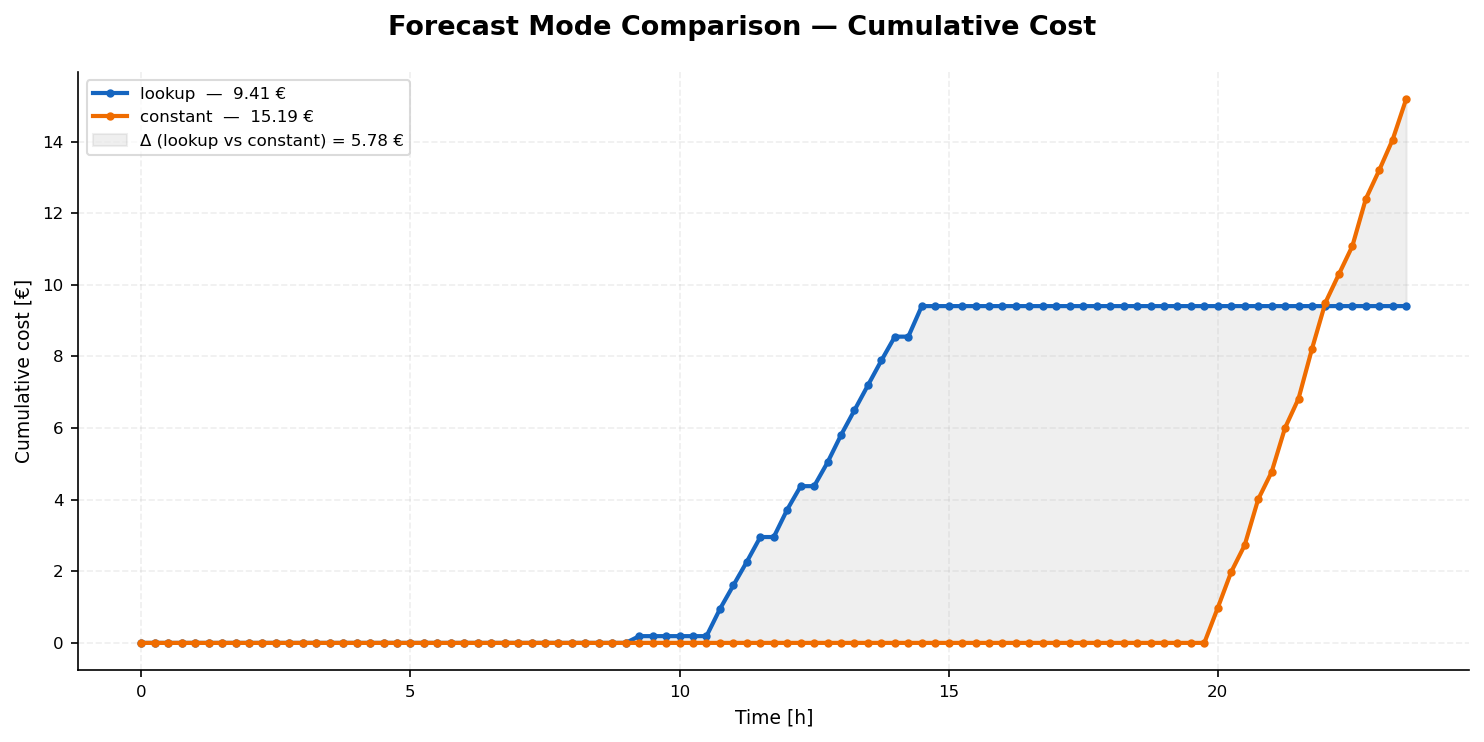
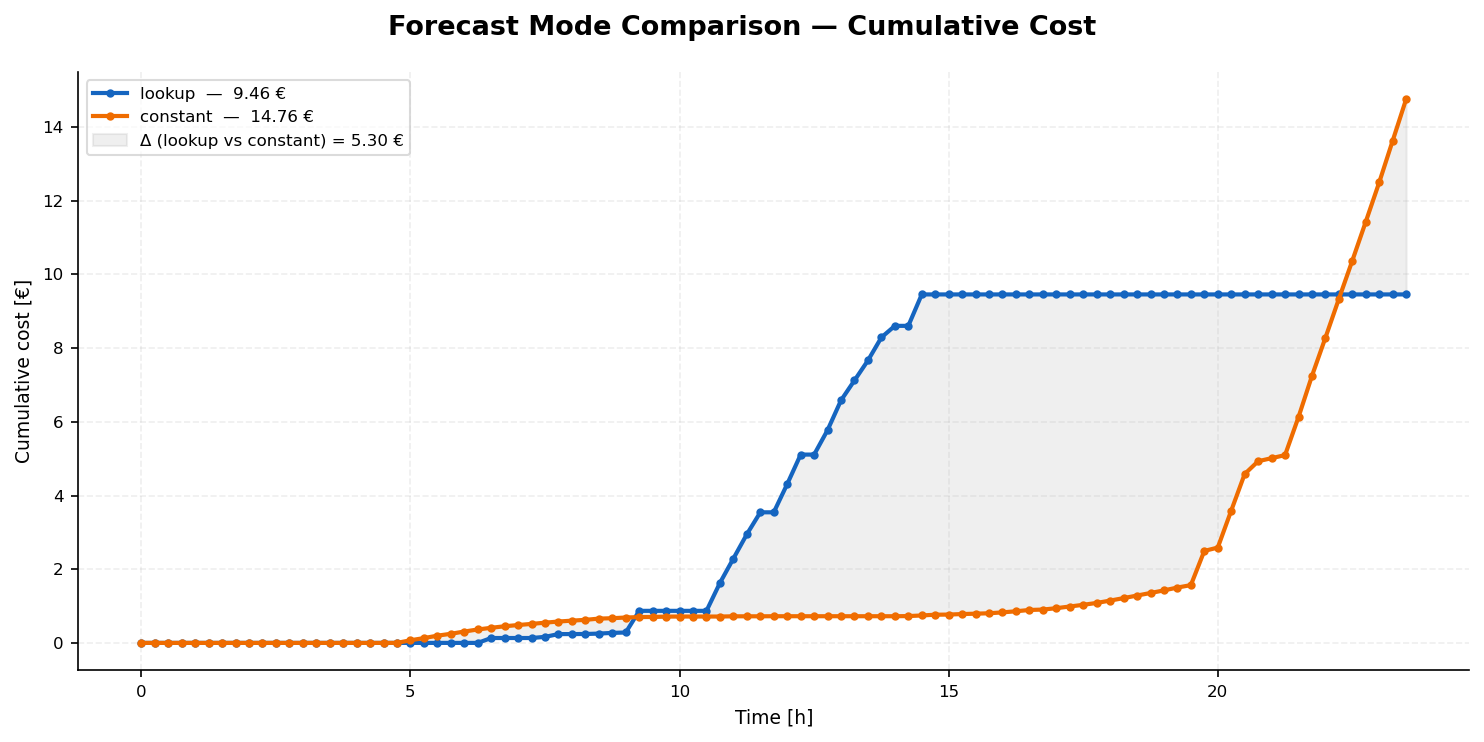
Add usage costs [€/kwh] for devices

diff --git a/control/milp/opt_components.py b/control/milp/opt_components.py
@@ -201,6 +201,7 @@ class BatteryModel(OptimizationComponent):
         discharge_max: float,
         soc_min: float = 0.0,
         efficiency: float = 1.0,
+        wearing_cost_per_kwh: float = 0.0,
     ) -> None:
         super().__init__()
         self.capacity = capacity
@@ -209,15 +210,19 @@ class BatteryModel(OptimizationComponent):
         self.discharge_max = discharge_max
         self.soc_min = soc_min
         self.efficiency = efficiency
+        self.wearing_cost_per_kwh = wearing_cost_per_kwh
 
         self._power_setpoint: Optional[range] = None        # set in register()
         self._soc: Optional[range] = None                   # set in register()
+        self._abs_power: Optional[range] = None             # set in register()
         self._power_setpoint_variable_name = f"battery_power_setpoint_{self.id}"
         self._soc_variable_name = f"battery_soc_{self.id}"
+        self._abs_power_variable_name = f"battery_abs_power_{self.id}"
 
     def register(self, reg: VariableRegistry, T: int) -> None:
         self._power_setpoint = reg.register(self._power_setpoint_variable_name, T)
         self._soc = reg.register(self._soc_variable_name, T + 1)
+        self._abs_power = reg.register(self._abs_power_variable_name, T)
 
     def contribute(self, reg, constraints, objective, lb, ub, T, dt) -> None:
         if self.soc_init is None:
@@ -225,6 +230,23 @@ class BatteryModel(OptimizationComponent):
 
         dt_in_hours = dt.seconds / 3600
         n = objective.size
+
+        for t in range(T):
+            # Penalize |power| so both charging and discharging incur wear cost.
+            # abs_power[t] >= power_setpoint[t]  and  abs_power[t] >= -power_setpoint[t]
+            objective[self._abs_power[t]] = self.wearing_cost_per_kwh * dt_in_hours
+            lb[self._abs_power[t]] = 0.0
+            ub[self._abs_power[t]] = max(self.charge_max, self.discharge_max)
+
+            row = np.zeros(n)
+            row[self._abs_power[t]] = 1.0
+            row[self._power_setpoint[t]] = -1.0
+            constraints.add_ineq(row, 0.0, np.inf)   # abs_power >= power
+
+            row = np.zeros(n)
+            row[self._abs_power[t]] = 1.0
+            row[self._power_setpoint[t]] = 1.0
+            constraints.add_ineq(row, 0.0, np.inf)   # abs_power >= -power
 
         for t in range(T):
             lb[self._power_setpoint[t]] = -self.discharge_max
@@ -284,6 +306,7 @@ class EVModel(OptimizationComponent):
         target_soc: Optional[float] = None,
         target_timestep: Optional[int] = None,
         efficiency: float = 1.0,
+        wearing_cost_per_kwh: float = 0.0,
     ) -> None:
         super().__init__()
         self.capacity = capacity
@@ -294,6 +317,7 @@ class EVModel(OptimizationComponent):
         self.target_soc = target_soc
         self.target_timestep = target_timestep
         self.efficiency = efficiency
+        self.wearing_cost_per_kwh = wearing_cost_per_kwh
 
         self._power_setpoint: Optional[range] = None            # set in register()
         self._soc: Optional[range] = None                       # set in register()
@@ -303,6 +327,7 @@ class EVModel(OptimizationComponent):
     def register(self, reg: VariableRegistry, T: int) -> None:
         self._power_setpoint = reg.register(self._power_setpoint_variable_name, T)
         self._soc = reg.register(self._soc_variable_name, T + 1)
+        self._abs_power = reg.register(f"ev_abs_power_{self.id}", T)
 
     def contribute(self, reg, constraints, objective, lb, ub, T, dt) -> None:
         if self.soc_init is None:
@@ -310,6 +335,23 @@ class EVModel(OptimizationComponent):
 
         dt_in_hours = dt.seconds / 3600
         n = objective.size
+
+        for t in range(T):
+            # Penalise |power| so both charging and discharging incur wear cost.
+            # abs_power[t] >= power_setpoint[t]  and  abs_power[t] >= -power_setpoint[t]
+            objective[self._abs_power[t]] = self.wearing_cost_per_kwh * dt_in_hours
+            lb[self._abs_power[t]] = 0.0
+            ub[self._abs_power[t]] = max(self.charge_max, self.discharge_max)
+
+            row = np.zeros(n)
+            row[self._abs_power[t]] = 1.0
+            row[self._power_setpoint[t]] = -1.0
+            constraints.add_ineq(row, 0.0, np.inf)   # abs_power >= power
+
+            row = np.zeros(n)
+            row[self._abs_power[t]] = 1.0
+            row[self._power_setpoint[t]] = 1.0
+            constraints.add_ineq(row, 0.0, np.inf)   # abs_power >= -power
 
         for t in range(T):
             lb[self._power_setpoint[t]] = -self.discharge_max
@@ -419,6 +461,7 @@ class HeatPumpModel(OptimizationComponent):
         C_therm: float,
         lambda_: float,
         cop_eta: float = 0.4,
+        wearing_cost_per_kwh: float = 0.0,
     ) -> None:
         """
         Construct a HeatPumpModel.
@@ -431,6 +474,7 @@ class HeatPumpModel(OptimizationComponent):
             C_therm: the effective thermal capacity of the building (parameter of the thermal model) [kWh/K]
             lambda_: the heat transfer coefficient between indoor and outdoor environment (parameter of the thermal model) [kW/K]
             cop_eta: the efficiency factor for computing the COP (parameter of the COP model) [-]. Higher values imply a more efficient heat pump.
+            wearing_cost_per_kwh: the wearing cost of the heat pump per kWh of energy throughput [€/kWh]. This cost is added to the objective to account for device wear and tear.
         """
         super().__init__()
         self.temp_init: Optional[float] = None
@@ -441,6 +485,7 @@ class HeatPumpModel(OptimizationComponent):
         self.C_therm = C_therm
         self.lambda_ = lambda_
         self.cop_eta = cop_eta
+        self.wearing_cost_per_kwh = wearing_cost_per_kwh
 
         self._power_setpoint: Optional[range] = None            # set in register()
         self._temp: Optional[range] = None                      # set in register()
@@ -466,6 +511,9 @@ class HeatPumpModel(OptimizationComponent):
         cop = self._compute_cop(temp_out, T)
         n = objective.size
         dt_in_hours = dt.seconds / 3600
+
+        for t in range(T):
+            objective[self._power_setpoint[t]] = self.wearing_cost_per_kwh * dt_in_hours
 
         for t in range(T):
             lb[self._power_setpoint[t]] = 0.0

diff --git a/main.py b/main.py
@@ -63,13 +63,14 @@ def _run_mode(
     ev_state  = SyntheticState(15.0)
     hp_state  = SyntheticState(21.5)
 
-    bat_model = BatteryModel(capacity=10.0, charge_max=3.0, discharge_max=3.0, soc_min=1.0, efficiency=0.95)
-    ev_model  = EVModel(capacity=60.0, charge_max=11.0, discharge_max=11.0, target_soc=50.0, target_timestep=T_total + 1, efficiency=0.95)
+    bat_model = BatteryModel(capacity=10.0, charge_max=3.0, discharge_max=3.0, soc_min=1.0, efficiency=0.95, wearing_cost_per_kwh=0.01)
+    ev_model  = EVModel(capacity=60.0, charge_max=11.0, discharge_max=11.0, target_soc=50.0, target_timestep=T_total + 1, efficiency=0.95, wearing_cost_per_kwh=0.02)
     hp_model  = HeatPumpModel(
         temp_min=np.full(T_horizon, 20.0),
         temp_max=np.full(T_horizon, 23.0),
         temp_out_series=series["temp_out"],
         max_power=3.0, C_therm=10.0, lambda_=0.25, cop_eta=0.4,
+        wearing_cost_per_kwh=0.01,
     )
 
     bat_sensor, bat_actuator = bat_state.make_sensor_actuator()
